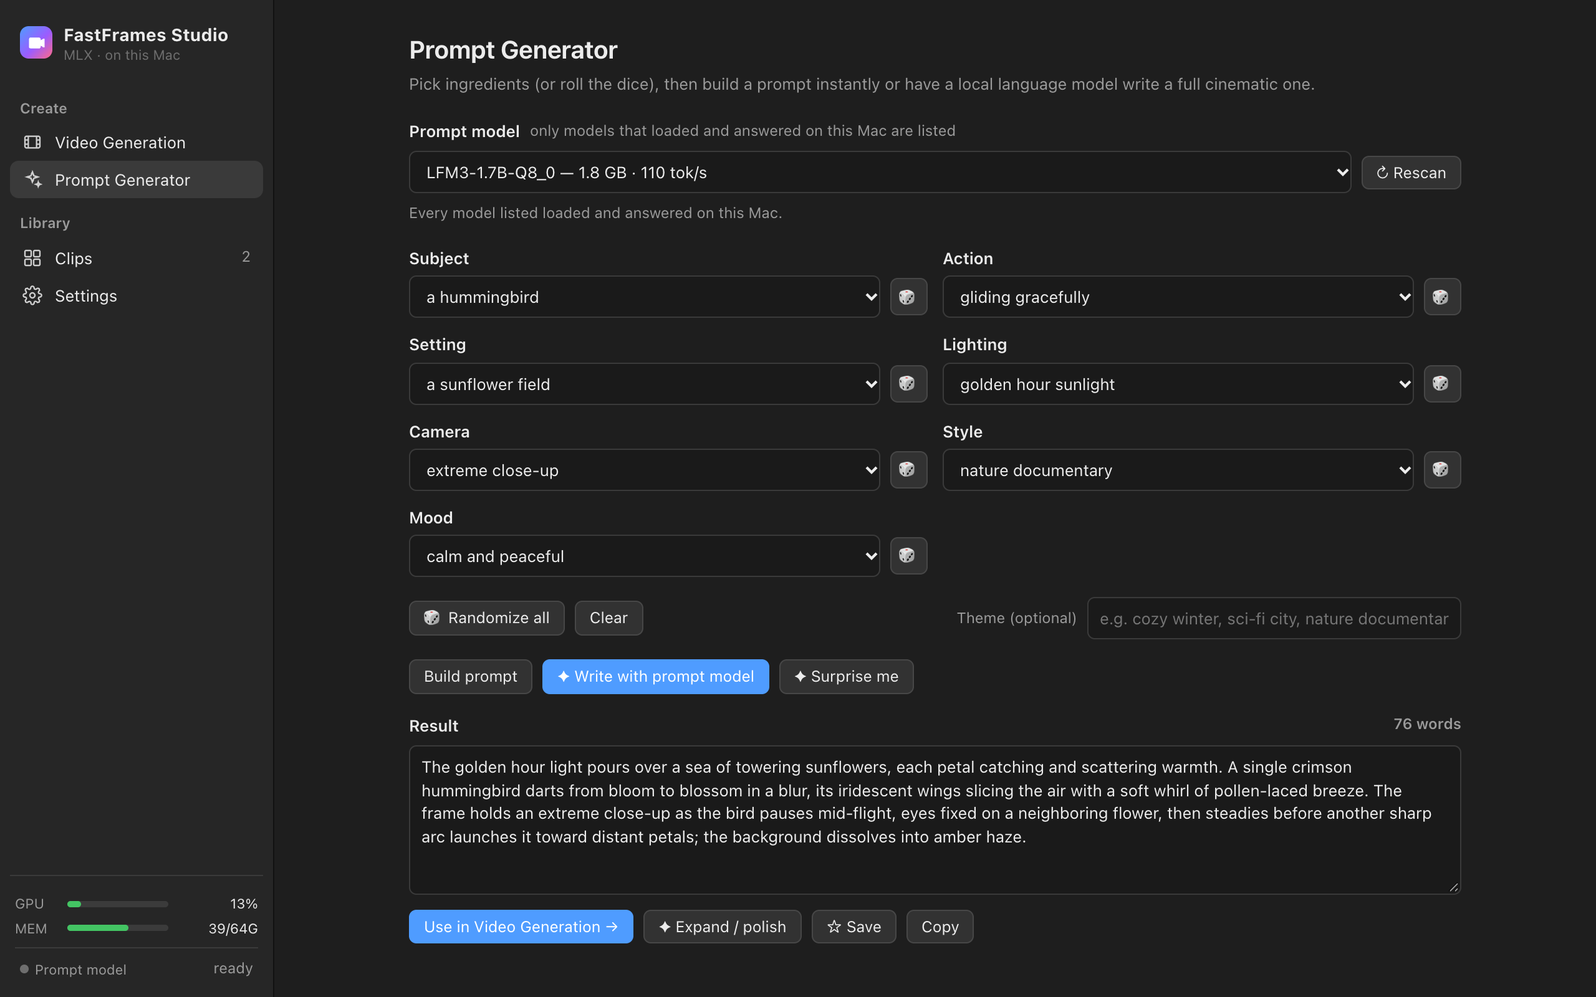
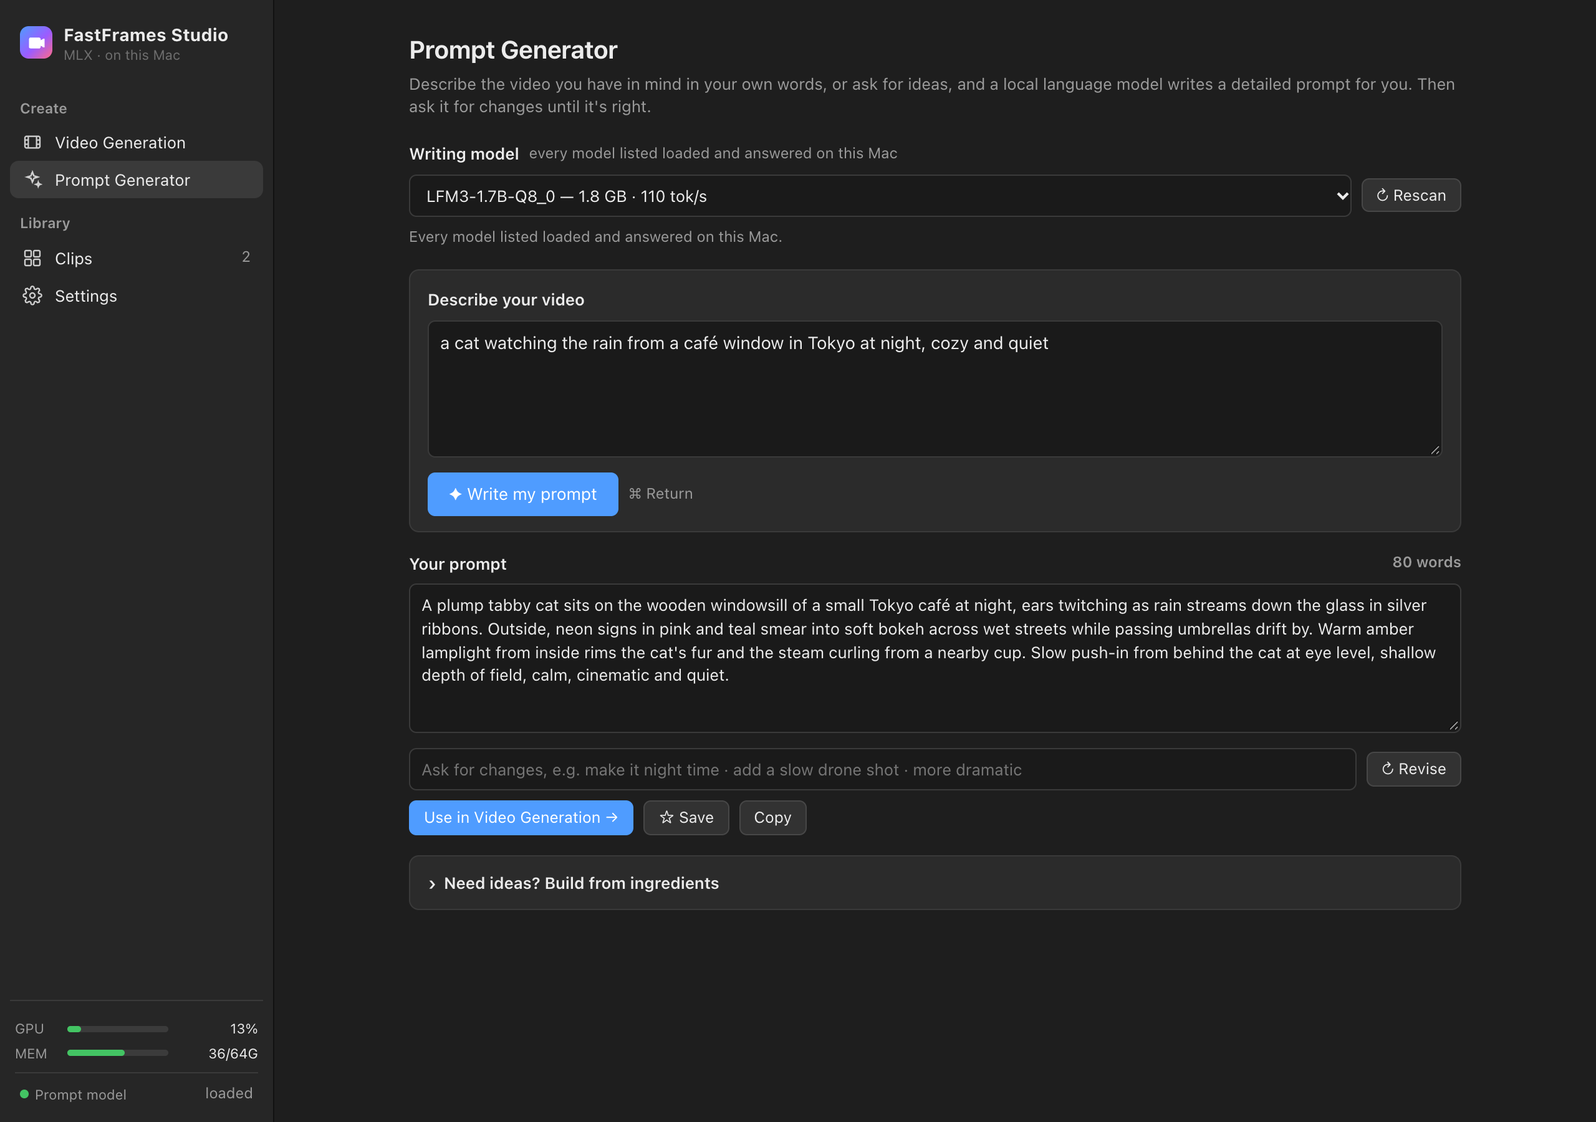
Prompt Generator: describe your video or ask for changes in your own words
The writing model now turns a free-form description or question into a
prompt, and revises it on request with undo. Model picker on both pages,
ingredients moved to an optional section, responsive layout for narrow
windows, open windows refresh after an update, and the page is no longer
cached.

diff --git a/index.html b/index.html
@@ -15,6 +15,8 @@ html,body{margin:0;height:100%;background:var(--bg);color:var(--text);
   font:13px/1.4 -apple-system,BlinkMacSystemFont,"SF Pro Text","Helvetica Neue",sans-serif;-webkit-font-smoothing:antialiased}
 button,input,select,textarea{font:inherit;color:inherit}
 .app{display:grid;grid-template-columns:220px 1fr;height:100vh}
+main{min-width:0}
+.pm select,.refine input{min-width:0}
 /* sidebar */
 .side{background:var(--side);border-right:1px solid #111;display:flex;flex-direction:column;padding:14px 8px 10px}
 .brand{display:flex;align-items:center;gap:9px;padding:4px 8px 16px}
@@ -123,6 +125,14 @@ h1{font-size:20px;margin:0 0 4px;font-weight:650}
 .clip p{margin:0 0 6px;font-size:12px;color:#d6d6d6;display:-webkit-box;-webkit-line-clamp:3;-webkit-box-orient:vertical;overflow:hidden}
 .clip .row{flex-wrap:wrap;gap:6px}
 .pm{display:flex;align-items:center;gap:8px;margin:0 0 18px}
+.askcard{padding:14px 14px 12px}
+textarea.ask{min-height:110px;font-size:14px}
+.btn.big{padding:7px 16px;font-size:13.5px}
+.refine input{flex:1}
+.ideas{background:var(--panel);border:1px solid var(--line);border-radius:var(--radius);padding:12px 14px}
+.ideas summary{font-weight:600}
+.pmmini{display:flex;align-items:center;gap:6px}
+.pmmini select{max-width:230px;padding:3px 6px;font-size:12px}
 .pm select{flex:1;min-width:0}
 .pm .hint{white-space:nowrap}
 .set-sec{margin-bottom:22px}
@@ -134,6 +144,27 @@ h1{font-size:20px;margin:0 0 4px;font-weight:650}
 .toast.on{opacity:1}
 .spin{width:13px;height:13px;border:2px solid rgba(255,255,255,.25);border-top-color:#fff;border-radius:50%;animation:sp .8s linear infinite;display:inline-block}
 @keyframes sp{to{transform:rotate(360deg)}}
+@media (max-width:1000px){
+  #p-video.on{grid-template-columns:1fr;overflow-y:auto}
+  #p-video .col{overflow:visible;border-right:0}
+  #p-video .preview{min-height:380px}
+}
+@media (max-width:820px){
+  .app{grid-template-columns:58px 1fr}
+  .side{padding:14px 6px 10px}
+  .brand div:last-child,.nav-h,.meters .meter span:first-child,.llm span:first-child,#libCount{display:none}
+  .brand{justify-content:center;padding-bottom:10px}
+  .nav{font-size:0;justify-content:center;padding:8px 0}
+  .nav svg{width:19px;height:19px}
+  .meters{padding:8px 0 0}
+  .meter{grid-template-columns:1fr;gap:3px;text-align:center}
+  .meter span:last-child{text-align:center;font-size:10px}
+  .llm{justify-content:center}
+  .wrap{padding:20px 16px 32px}
+  .grid{grid-template-columns:1fr}
+  .row{flex-wrap:wrap}
+  #theme{width:100%!important}
+}
 ::-webkit-scrollbar{width:9px}::-webkit-scrollbar-thumb{background:#4a4a4a;border-radius:5px;border:2px solid var(--bg)}
 </style>
 </head>
@@ -182,7 +213,7 @@ h1{font-size:20px;margin:0 0 4px;font-weight:650}
         </div>
         <textarea id="prompt" placeholder="Describe the shot: subject, motion, setting, light, camera, style. Long, specific prompts follow the text more closely."></textarea>
         <div class="row mt2"><span class="hint" id="pCount">0 words</span><span style="flex:1"></span>
-          <span class="hint">Enhance uses <a href="#" id="pmLink" style="color:var(--blue);text-decoration:none">…</a></span>
+          <span class="pmmini hint">Writing model <select class="pmSelect" id="pmSel2" title="Model used by Enhance and the Prompt Generator"></select></span>
 </div>
         <div class="row"><span style="flex:1"></span><button class="btn ghost" id="toGen">Open Prompt Generator →</button></div>
 
@@ -231,35 +262,60 @@ h1{font-size:20px;margin:0 0 4px;font-weight:650}
     <section class="page" id="p-gen">
       <div class="wrap">
         <h1>Prompt Generator</h1>
-        <p class="lead">Pick ingredients (or roll the dice), then build a prompt instantly or have a local language model write a full cinematic one.</p>
-        <div class="lbl">Prompt model <span class="sub">only models that loaded and answered on this Mac are listed</span></div>
-        <div class="pm"><select id="pmSel"><option>Scanning your models…</option></select>
+        <p class="lead">Describe the video you have in mind in your own words, or ask for ideas, and a local language model writes a detailed prompt for you. Then ask it for changes until it's right.</p>
+
+        <div class="lbl">Writing model <span class="sub">every model listed loaded and answered on this Mac</span></div>
+        <div class="pm"><select class="pmSelect" id="pmSel"><option>Scanning your models…</option></select>
           <button class="btn" id="pmRefresh" title="Look for new models">↻ Rescan</button></div>
         <div class="hint" id="pmStatus" style="margin:-10px 0 18px"></div>
 
-        <div class="grid" id="ingGrid"></div>
-        <div class="row mt">
-          <button class="btn" id="rollAll">🎲 Randomize all</button>
-          <button class="btn" id="clearAll">Clear</button>
-          <span style="flex:1"></span>
-          <span class="hint">Theme (optional)</span>
-          <input type="text" id="theme" placeholder="e.g. cozy winter, sci‑fi city, nature documentary" style="width:300px">
+        <div class="card askcard">
+          <div class="lbl">Describe your video</div>
+          <textarea id="ask" class="ask" placeholder="Say it however you like, for example:
+• a cat watching the rain from a café window in Tokyo at night
+• something epic for a fantasy trailer, dragons over a snowy mountain
+• what would look amazing in a 5-second clip about autumn?"></textarea>
+          <div class="row mt2">
+            <button class="btn blue big" id="writeBtn">✦ Write my prompt</button>
+            <span class="hint">⌘ Return</span>
+            <span style="flex:1"></span>
+            <span class="hint" id="genHint"></span>
+          </div>
         </div>
-        <div class="row mt">
-          <button class="btn" id="buildBtn">Build prompt</button>
-          <button class="btn blue" id="writeBtn">✦ Write with prompt model</button>
-          <button class="btn" id="surpriseBtn">✦ Surprise me</button>
-          <span class="hint" id="genHint"></span>
+
+        <div class="lbl mt">Your prompt <span class="sp"></span><span class="hint" id="rCount"></span></div>
+        <textarea id="result" placeholder="Your prompt appears here. You can edit it directly."></textarea>
+        <div class="row mt2 refine">
+          <input type="text" id="refineIn" placeholder="Ask for changes, e.g. make it night time · add a slow drone shot · more dramatic">
+          <button class="btn" id="refineBtn">↻ Revise</button>
         </div>
-        <div class="lbl mt">Result <span class="sp"></span><span class="hint" id="rCount"></span></div>
-        <textarea id="result" placeholder="Your prompt appears here. You can edit it."></textarea>
         <div class="row mt2">
           <button class="btn blue" id="useBtn">Use in Video Generation →</button>
-          <button class="btn" id="expandBtn">✦ Expand / polish</button>
           <button class="btn" id="saveBtn">☆ Save</button>
           <button class="btn" id="copyBtn">Copy</button>
+          <span style="flex:1"></span>
+          <button class="btn ghost" id="undoBtn" style="display:none">↶ Undo last change</button>
         </div>
         <div class="err" id="gErr"></div>
+
+        <details class="mt ideas">
+          <summary>Need ideas? Build from ingredients</summary>
+          <p class="hint mt2">Pick a few ingredients (or roll the dice). <b>Build</b> combines them instantly without a model; <b>Write from ingredients</b> has the model turn them into a full prompt; <b>Surprise me</b> invents one.</p>
+          <div class="grid mt2" id="ingGrid"></div>
+          <div class="row mt">
+            <button class="btn" id="rollAll">🎲 Randomize all</button>
+            <button class="btn" id="clearAll">Clear</button>
+            <span style="flex:1"></span>
+            <span class="hint">Theme</span>
+            <input type="text" id="theme" placeholder="e.g. cozy winter, sci‑fi city" style="width:260px">
+          </div>
+          <div class="row mt">
+            <button class="btn" id="buildBtn">Build</button>
+            <button class="btn" id="ingWriteBtn">✦ Write from ingredients</button>
+            <button class="btn" id="surpriseBtn">✦ Surprise me</button>
+          </div>
+        </details>
+
         <div class="saved"><div class="lbl">Saved prompts</div><div id="savedList" class="hint">Nothing saved yet.</div></div>
       </div>
     </section>
@@ -447,8 +503,15 @@ $$("#ingGrid [data-roll]").forEach(b=>b.onclick=()=>{ const k=b.dataset.roll, s=
 $("#rollAll").onclick=()=>Object.keys(ING).forEach(k=>{ const s=$(`select[data-k="${k}"]`); s.value=pick(ING[k]); sel[k]=s.value; });
 $("#clearAll").onclick=()=>{ $$("#ingGrid select").forEach(s=>{s.value=""; sel[s.dataset.k]="";}); $("#theme").value=""; };
 const ingText = ()=>Object.entries(sel).filter(([k,v])=>v).map(([k,v])=>`${k.toLowerCase()}: ${v}`).join("; ");
-function setResult(t){ $("#result").value=t; $("#rCount").textContent=`${words(t)} words`; }
-$("#result").oninput=()=>$("#rCount").textContent=`${words($("#result").value)} words`;
+let lastResult = null;
+function setResult(t, keepUndo){
+  const cur=$("#result").value.trim();
+  if(!keepUndo && cur && cur!==t){ lastResult=cur; $("#undoBtn").style.display=""; }
+  $("#result").value=t; $("#rCount").textContent=`${words(t)} words`; localStorage.ffResult=t;
+}
+$("#result").oninput=()=>{ $("#rCount").textContent=`${words($("#result").value)} words`; localStorage.ffResult=$("#result").value; };
+$("#ask").oninput=()=>localStorage.ffAsk=$("#ask").value;
+$("#undoBtn").onclick=()=>{ if(lastResult==null) return; const t=lastResult; lastResult=null; $("#undoBtn").style.display="none"; setResult(t,true); };
 $("#buildBtn").onclick=()=>{
   const g=k=>sel[k]||pick(ING[k]);
   let t=`${cap(g("Subject"))} ${g("Action")} in ${g("Setting")}, ${g("Lighting")}, ${g("Camera")}, ${g("Style")}, ${g("Mood")} mood.`;
@@ -458,17 +521,29 @@ $("#buildBtn").onclick=()=>{
 const cap = s => s.charAt(0).toUpperCase()+s.slice(1);
 async function llmCall(btn, path, body, label){
   const old=btn.innerHTML; btn.disabled=true; btn.innerHTML=`<span class="spin"></span>${label}`; $("#gErr").textContent="";
-  $("#genHint").textContent = llmState!=="ready" ? `Loading ${$("#pmLink").textContent}…` : "";
-  try{ const r=await api(path, body); setResult(r.prompt); }
-  catch(e){ $("#gErr").textContent=e.message; }
+  $("#genHint").textContent = llmState!=="ready" ? `Loading ${curModelName()}…` : `${curModelName()} is writing…`;
+  try{ const r=await api(path, body); setResult(r.prompt); return true; }
+  catch(e){ $("#gErr").textContent=e.message; return false; }
   finally{ btn.disabled=false; btn.innerHTML=old; $("#genHint").textContent=""; }
 }
 $("#writeBtn").onclick=()=>{
+  const d=$("#ask").value.trim(); if(!d){ $("#ask").focus(); toast("Describe what you want first"); return; }
+  llmCall($("#writeBtn"),"/api/write",{description:d, details:ingText()},"Writing…");
+};
+$("#ask").onkeydown=e=>{ if(e.key==="Enter" && (e.metaKey||e.ctrlKey)){ e.preventDefault(); $("#writeBtn").click(); } };
+async function revise(){
+  const t=$("#result").value.trim(), r=$("#refineIn").value.trim();
+  if(!t){ toast("Write a prompt first"); return; } if(!r){ $("#refineIn").focus(); toast("Type the change you want"); return; }
+  if(await llmCall($("#refineBtn"),"/api/refine",{prompt:t, request:r},"Revising…")) $("#refineIn").value="";
+}
+$("#refineBtn").onclick=revise;
+$("#refineIn").onkeydown=e=>{ if(e.key==="Enter"){ e.preventDefault(); revise(); } };
+$("#ingWriteBtn").onclick=()=>{
   const th=[$("#theme").value.trim(), ingText()].filter(Boolean).join(". ");
-  llmCall($("#writeBtn"),"/api/idea",{theme:th},"Writing…");
+  if(!th){ toast("Pick an ingredient or theme first, or use Surprise me"); return; }
+  llmCall($("#ingWriteBtn"),"/api/idea",{theme:th},"Writing…");
 };
 $("#surpriseBtn").onclick=()=>llmCall($("#surpriseBtn"),"/api/idea",{theme:$("#theme").value.trim()},"Dreaming…");
-$("#expandBtn").onclick=()=>{ const t=$("#result").value.trim(); if(!t){toast("Nothing to expand yet");return;} llmCall($("#expandBtn"),"/api/enhance",{prompt:t},"Polishing…"); };
 $("#useBtn").onclick=()=>{ const t=$("#result").value.trim(); if(!t){toast("Nothing to use yet");return;} setPrompt(t); show("video"); toast("Prompt sent to Video Generation"); };
 $("#copyBtn").onclick=()=>{ navigator.clipboard.writeText($("#result").value); toast("Copied"); };
 const saved = ()=>JSON.parse(localStorage.ffSaved||"[]");
@@ -518,9 +593,10 @@ $("#quitBtn").onclick=async()=>{ if(!confirm("Quit FastFrames Studio?")) return;
 /* ---------------- prompt model picker ---------------- */
 let pmData={models:[]};
 const TIER={fast:"Fast — small models (seconds per prompt)",balanced:"Balanced — mid-size models",large:"Large — slower, most memory",server:"Running apps (MLX-Serve, LM Studio, Ollama)"};
+const curModelName = ()=>{ const m=(pmData.models||[]).find(x=>x.id===pmData.current); return m?m.name:"the writing model"; };
 async function loadModels(){
   try{ pmData=await api("/api/models"); }catch(e){ return; }
-  const sel=$("#pmSel"), groups={};
+  const groups={};
   pmData.models.forEach(m=>{ const g=m.kind==="server"?"server":m.tier; (groups[g]=groups[g]||[]).push(m); });
   let html="";
   for(const g of ["fast","balanced","large","server"]){
@@ -530,16 +606,13 @@ async function loadModels(){
       return `<option value="${m.id}" ${m.status==="checking"?"disabled":""} ${m.id===pmData.current?"selected":""}>${m.name}${bits?"  —  "+bits:""}</option>`;
     }).join("")+`</optgroup>`;
   }
-  sel.innerHTML = html || `<option>No working models found — see Settings</option>`;
-  const cur=pmData.models.find(m=>m.id===pmData.current);
-  $("#pmLink").textContent = cur ? cur.name : "no model";
+  $$(".pmSelect").forEach(sel=>{ if(document.activeElement!==sel) sel.innerHTML = html || `<option>No working models found — see Settings</option>`; });
   const ok=pmData.models.filter(m=>m.status!=="checking").length;
   $("#pmStatus").textContent = (pmData.verifying ? `Testing ${pmData.verifying}… ` : "") +
     (pmData.queue ? `${pmData.queue} model${pmData.queue>1?"s":""} still to test (one-time, in the background). ` : "") + `${ok} ready.`;
 }
-$("#pmSel").onchange=async e=>{ await api("/api/models/select",{id:e.target.value}); await loadModels(); toast("Prompt model: "+($("#pmLink").textContent)); };
+$$(".pmSelect").forEach(sel=>sel.onchange=async e=>{ await api("/api/models/select",{id:e.target.value}); await loadModels(); toast("Writing model: "+curModelName()); });
 $("#pmRefresh").onclick=async()=>{ $("#pmStatus").textContent="Rescanning…"; await api("/api/models/rescan",{}); await loadModels(); };
-$("#pmLink").onclick=e=>{ e.preventDefault(); show("gen"); };
 setInterval(()=>{ if(pmData.queue||pmData.verifying) loadModels(); }, 5000);
 
 /* ---------------- meters ---------------- */
@@ -549,6 +622,7 @@ async function stats(){
     const s=await api("/api/stats");
     if(s.gpu!=null){ $("#mGpu").style.width=s.gpu+"%"; $("#tGpu").textContent=s.gpu+"%"; }
     if(s.mem_used!=null){ const u=s.mem_used/2**30, t=s.mem_total/2**30; $("#mMem").style.width=(100*u/t)+"%"; $("#tMem").textContent=`${Math.round(u)}/${Math.round(t)}G`; }
+    if(s.build){ if(!window._build) window._build=s.build; else if(s.build!==window._build && $("#genBtn").dataset.mode!=="cancel") location.reload(); }
     llmState=s.llm; $("#llmDot").className="dot "+(s.llm==="ready"?"ok":s.llm==="loading"?"busy":"");
     $("#llmTxt").textContent= s.llm==="ready"?"loaded":s.llm==="loading"?"loading…":(s.llm_name?"ready":"none");
     $("#llmTxt").title = s.llm_name||"";
@@ -559,6 +633,8 @@ async function stats(){
 /* ---------------- boot ---------------- */
 (async()=>{
   if(localStorage.ffPrompt) $("#prompt").value=localStorage.ffPrompt; updCount();
+  if(localStorage.ffAsk) $("#ask").value=localStorage.ffAsk;
+  if(localStorage.ffResult){ $("#result").value=localStorage.ffResult; $("#rCount").textContent=`${words(localStorage.ffResult)} words`; }
   if(localStorage.ffFrames) $("#frames").value=localStorage.ffFrames;
   $("#seedAuto").checked=!!localStorage.ffSeedAuto;
   await loadConfig(); renderSaved(); refreshCount(); stats(); loadModels();

diff --git a/app.py b/app.py
@@ -278,6 +278,18 @@ ENHANCE_SYSTEM = (
     "the action and motion, the setting and background, the lighting and time of day, the camera (shot size, "
     "angle, movement), and the visual style. Write " + RULES)
 
+WRITE_SYSTEM = (
+    "You write prompts for a text-to-video model that makes short cinematic clips. The user describes, in "
+    "their own words, the video they want. It may be rough notes, a full scene, a question, or a request for "
+    "ideas. Turn it into the single best prompt for what they asked: keep every element they mention, then add "
+    "concrete detail for the subject and its look, the action and motion, the setting, the lighting and time of "
+    "day, the camera (shot size, angle, movement) and the visual style. If they ask a question or want ideas, "
+    "answer by writing one prompt that fits. Write " + RULES)
+
+REFINE_SYSTEM = (
+    "You edit prompts for a text-to-video model. You get the current prompt and a change the user wants. Apply "
+    "the change, keep everything else that still fits, and return the complete revised prompt as " + RULES)
+
 IDEA_SYSTEM = (
     "You invent prompts for a text-to-video model that makes short cinematic clips. Invent one original, "
     "visually striking scene covering subject and look, action and motion, setting, lighting, camera shot and "
@@ -478,6 +490,11 @@ def clean_prompt(text):
 
 
 def chat(system, user, temperature=0.8):
+    t0 = time.time()
+    while not catalog["scanned"] and time.time() - t0 < 30:   # first scan still running after startup
+        if not catalog["scanning"]:
+            rescan()
+        time.sleep(0.2)
     m = current_model()
     if not m:
         raise RuntimeError("No working prompt model was found. Put a GGUF chat model in one of the search "
@@ -537,6 +554,8 @@ class Handler(BaseHTTPRequestHandler):
         else:
             self.send_response(200)
         self.send_header("content-type", ctype)
+        if ctype.startswith("text/html"):
+            self.send_header("cache-control", "no-store")
         self.send_header("accept-ranges", "bytes")
         self.send_header("content-length", str(end - start + 1))
         self.end_headers()
@@ -563,6 +582,7 @@ class Handler(BaseHTTPRequestHandler):
         if p == "/api/stats":
             s = stats()
             cm = current_model()
+            s["build"] = int(max((APP_DIR / f).stat().st_mtime for f in ("index.html", "app.py", "prompt_models.py")))
             s.update(llm=llm["state"] if llm["state"] != "ready" or _up(LLM_PORT) else "stopped",
                      llm_name=(cm or {}).get("name"), model_loaded=mlx_ready["loaded"],
                      verifying=verify["current"], verify_queue=verify["queue"])
@@ -608,6 +628,18 @@ class Handler(BaseHTTPRequestHandler):
                 if not idea:
                     return self._json({"error": "Type an idea first."}, 400)
                 return self._json({"prompt": chat(ENHANCE_SYSTEM, idea, 0.7)})
+            if p == "/api/write":
+                d = (body.get("description") or "").strip()
+                if not d:
+                    return self._json({"error": "Describe the video you want first."}, 400)
+                extra = (body.get("details") or "").strip()
+                user = d + (f"\n\nAlso include: {extra}" if extra else "")
+                return self._json({"prompt": chat(WRITE_SYSTEM, user, 0.7)})
+            if p == "/api/refine":
+                cur, req = (body.get("prompt") or "").strip(), (body.get("request") or "").strip()
+                if not cur or not req:
+                    return self._json({"error": "Need a prompt and the change you want."}, 400)
+                return self._json({"prompt": chat(REFINE_SYSTEM, f"Current prompt:\n{cur}\n\nChange: {req}", 0.5)})
             if p == "/api/idea":
                 theme = (body.get("theme") or "").strip()
                 user = f"Theme or ingredients: {theme}" if theme else "Surprise me with something visually striking."

diff --git a/README.md b/README.md
@@ -35,7 +35,7 @@ On an M1 Max a full 5-second clip takes about **1½ minutes**, and a 1-second pr
 ## Features
 
 ### 🎬 Video Generation
-- **Prompt box with Enhance** — turn *"a dog surfing at sunset"* into a rich, cinematic paragraph in about a second.
+- **Prompt box with Enhance** — turn *"a dog surfing at sunset"* into a rich, cinematic paragraph in about a second, with the writing model picker right there.
 - **Templates** — ten ready-made prompts to start from.
 - **Length presets** — 1 s preview, 2.6 s, 3.8 s or the full 5 s, plus a frame slider.
 - **Seeds** — same prompt + seed gives the same clip; roll a new seed or auto-randomize every run.
@@ -45,14 +45,15 @@ On an M1 Max a full 5-second clip takes about **1½ minutes**, and a 1-second pr
 <p align="center"><img src="assets/gen.png" width="900" alt="Prompt Generator"></p>
 
 ### ✨ Prompt Generator
-- **Ingredient pickers** — subject, action, setting, lighting, camera, style and mood, each with a 🎲 dice button, or **Randomize all**.
-- **Build prompt** — combines your picks instantly, no model needed.
-- **Write / Surprise me / Expand** — a local language model writes a full cinematic prompt from your ingredients, invents one from scratch, or polishes your own.
-- **Use any model you already have** — a dropdown lists every chat model on your Mac that actually works:
-  - GGUF files in LM Studio, Hugging Face and your own folders are **test-loaded once in the background** with llama.cpp (smallest first), and only models that load and answer are shown, with their measured speed.
+- **Describe it your way** — type what you want in plain words (*"a cat watching the rain from a café window in Tokyo at night"*), or ask a question (*"what would look amazing in a 5-second clip about autumn?"*), and a local language model writes a detailed, cinematic prompt. ⌘ Return to write.
+- **Ask for changes** — *"make it daytime"*, *"add a slow drone shot"*, *"more dramatic"* — and it revises the prompt, keeping everything else. One-click undo.
+- **Pick the writing model** — a dropdown (on this page and next to the Video prompt) lists every chat model on your Mac that actually works:
+  - GGUF files in LM Studio, Hugging Face and your own folders are **test-loaded once in the background** with llama.cpp (smallest first); only models that load and answer are shown, with their measured speed.
   - Models from **MLX-Serve, LM Studio and Ollama** appear automatically while those apps are running.
   - Image, audio, embedding and draft-model files are filtered out, and so are models too large to run next to the video model.
-- **Saved prompts** — keep your favourites and send any prompt straight to Video Generation.
+  - Small models such as LFM3-1.7B write a full prompt in about a second.
+- **Need ideas?** — optional ingredient pickers (subject, action, setting, lighting, camera, style, mood) with 🎲 dice: build a prompt instantly, have the model write from them, or **Surprise me**.
+- **Saved prompts** — keep favourites and send any prompt straight to Video Generation.
 
 <p align="center"><img src="assets/lib.png" width="900" alt="Clips library"></p>
 
